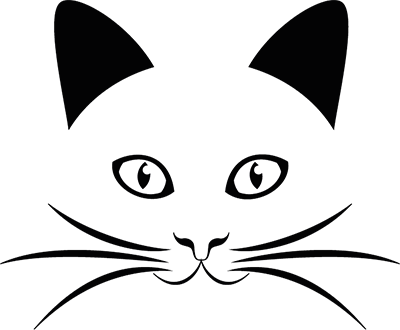
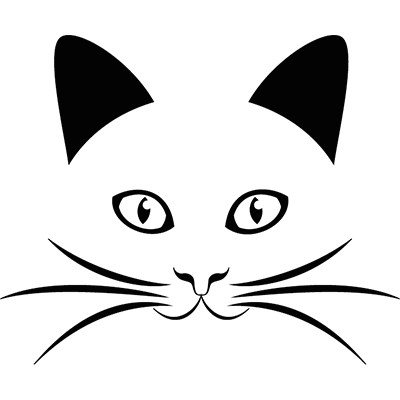
Изменён размер картинки для загрузочного экрана. Добавлены новые функции для графики.

diff --git a/cat_engine/src/graphics/graphics.rs b/cat_engine/src/graphics/graphics.rs
@@ -95,6 +95,14 @@ impl Graphics2D{
     /// Используется только для невращающихся изображений.
     /// 
     /// Для вывода изображения из этой области используется функция 'draw_range_image'.
+    /// 
+    /// Saves vertexes of the image to the given range of the vertex buffer.
+    /// 
+    /// Returns the index of the range.
+    /// 
+    /// Only for not rotating images.
+    /// 
+    /// Use 'draw_range_image' for drawing.
     #[cfg(feature="texture_graphics")]
     pub fn bind_image(&mut self,range:Range<usize>,image_base:ImageBase)->Option<usize>{
         let data=image_base.vertex_buffer();
@@ -108,38 +116,76 @@ impl Graphics2D{
     /// Используется только для вращающихся изображений.
     /// 
     /// Для вывода изображения из этой области используется функция 'draw_rotate_range_image'.
+    /// 
+    /// Saves vertexes of the image to the given range of the vertex buffer.
+    /// 
+    /// Returns the index of the range.
+    /// 
+    /// Only for rotating images.
+    /// 
+    /// Use 'draw_rotate_range_image' for drawing.
     #[cfg(feature="texture_graphics")]
     pub fn bind_rotating_image(&mut self,range:Range<usize>,image_base:ImageBase)->Option<usize>{
         let data=image_base.rotation_vertex_buffer();
         self.texture.bind_range(range,&data)
     }
 
+    /// Saves vertexes of the simple object to the given range of the vertex buffer.
+    /// 
+    /// Returns the index of the range.
+    /// 
+    /// Use 'draw_range_simple' for drawing.
     #[cfg(feature="simple_graphics")]
     pub fn bind_simple<'a,O:SimpleObject<'a>>(&mut self,range:Range<usize>,object:&O)->Option<usize>{
         let data=object.vertex_buffer();
         self.simple.bind_range(range,&data)
     }
 
+    /// Rewrites the range with new ImageBase.
     #[cfg(feature="texture_graphics")]
     pub fn rewrite_range_image(&mut self,range:usize,image_base:ImageBase)->Option<()>{
         let data=image_base.rotation_vertex_buffer();
         self.texture.rewrite_range(range,&data)
     }
 
+    /// Rewrites the range with new object.
+    #[cfg(feature="simple_graphics")]
+    pub fn rewrite_range_simple<'a,O:SimpleObject<'a>>(&mut self,range:usize,object:&O)->Option<()>{
+        let data=object.vertex_buffer();
+        self.simple.rewrite_range(range,&data)
+    }
+
+    /// Removes the last range from the range buffer of textures.
+    #[inline(always)]
+    #[cfg(feature="texture_graphics")]
+    pub fn pop_texture(&mut self,index:usize)->Option<Range<usize>>{
+        self.texture.pop_range()
+    }
+
+    /// Removes the last range from the range buffer of simple objects.
+    #[inline(always)]
+    #[cfg(feature="simple_graphics")]
+    pub fn pop_simple(&mut self,index:usize)->Option<Range<usize>>{
+        self.texture.pop_range()
+    }
+
+    /// Removes the range from the range buffer of textures.
     #[inline(always)]
     #[cfg(feature="texture_graphics")]
     pub fn unbind_texture(&mut self,index:usize){
         self.texture.unbind(index)
     }
 
+    /// Removes the range from the range buffer of simple objects.
     #[inline(always)]
     #[cfg(feature="simple_graphics")]
     pub fn unbind_simple(&mut self,index:usize){
         self.simple.unbind(index)
     }
 
+    /// 
     #[cfg(feature="texture_graphics")]
-    pub fn draw_range_image(
+    fn draw_range_image(
         &self,
         index:usize,
         texture:&Texture,
@@ -159,7 +205,7 @@ impl Graphics2D{
     }
 
     #[cfg(feature="texture_graphics")]
-    pub fn draw_shift_range_image(
+    fn draw_shift_range_image(
         &self,
         index:usize,
         texture:&Texture,
@@ -181,7 +227,7 @@ impl Graphics2D{
     }
 
     #[cfg(feature="texture_graphics")]
-    pub fn draw_rotate_range_image(
+    fn draw_rotate_range_image(
         &self,
         index:usize,
         texture:&Texture,
@@ -203,7 +249,7 @@ impl Graphics2D{
     }
 
     #[cfg(feature="simple_graphics")]
-    pub fn draw_range_simple<'a,O:SimpleObject<'a>>(
+    fn draw_range_simple<'a,O:SimpleObject<'a>>(
         &self,
         index:usize,
         object:&O,

diff --git a/src/pages/loading_screen.rs b/src/pages/loading_screen.rs
@@ -20,9 +20,7 @@ use cat_engine::{
 
 pub struct LoadingScreen{
     cat:Texture,
-    cat_range:usize,
     gear:Texture,
-    gear_range:usize,
 }
 
 impl LoadingScreen{
@@ -35,20 +33,18 @@ impl LoadingScreen{
         ]});
 
         // Установка области для быстрой отрисовки иконки загрузки
-        let cat_range=window.graphics().bind_image(4..8usize,image_base.clone()).unwrap();
+        window.graphics().bind_image(4..8usize,image_base.clone()).unwrap();
 
         image_base.x1*=2f32;
         image_base.y1*=2f32;
         image_base.x2*=2f32;
         image_base.y2*=2f32;
 
-        let gear_range=window.graphics().bind_rotating_image(8..12usize,image_base).unwrap();
+        window.graphics().bind_rotating_image(8..12usize,image_base).unwrap();
 
         Self{
             cat:Texture::from_path("./resources/images/cat.png",window.display()).unwrap(),
-            cat_range,
             gear:Texture::from_path("./resources/images/gear.png",window.display()).unwrap(),
-            gear_range,
         }
     }
 
@@ -73,14 +69,14 @@ impl LoadingScreen{
                     window.draw(|parameters,graphics|{
                         graphics.clear_colour(White);
                         graphics.draw_range_image(
-                            self.cat_range,
+                            0,
                             &self.cat,
                             White,
                             parameters
                         );
 
                         graphics.draw_rotate_range_image(
-                            self.gear_range,
+                            1,
                             &self.gear,
                             White,
                             t,
@@ -95,14 +91,14 @@ impl LoadingScreen{
                         make_screenshot(window,|parameters,graphics|{
                             graphics.clear_colour(White);
                             graphics.draw_range_image(
-                                self.cat_range,
+                                0,
                                 &self.cat,
                                 White,
                                 parameters
                             );
-    
+
                             graphics.draw_rotate_range_image(
-                                self.gear_range,
+                                1,
                                 &self.gear,
                                 White,
                                 t,
@@ -143,9 +139,9 @@ impl LoadingScreen{
         }
 
         // Удаление области для иконки загрузки
-        window.graphics().unbind_texture(self.cat_range);
+        window.graphics().unbind_texture(0);
 
-        window.graphics().unbind_texture(self.gear_range-1);
+        window.graphics().unbind_texture(0);
 
         Game::MainMenu
     }

diff --git a/cat_engine/src/graphics/simple_graphics.rs b/cat_engine/src/graphics/simple_graphics.rs
@@ -138,6 +138,17 @@ impl SimpleGraphics{
         Some(i)
     }
 
+    pub fn rewrite_range(&mut self,range:usize,data:&[Point2D])->Option<()>{
+        let range=self.vertex_buffer_ranges.get(range)?;
+        let slice=self.vertex_buffer.slice(range.clone())?;
+        slice.write(&data);
+        Some(())
+    }
+
+    pub fn pop_range(&mut self)->Option<Range<usize>>{
+        self.vertex_buffer_ranges.pop()
+    }
+
     /// Удаляет выбранную область, без проверки.
     /// 
     /// Removes a range without checking it.

diff --git a/cat_engine/src/graphics/texture_graphics.rs b/cat_engine/src/graphics/texture_graphics.rs
@@ -164,6 +164,10 @@ impl TextureGraphics{
         Some(i)
     }
 
+    pub fn pop_range(&mut self)->Option<Range<usize>>{
+        self.vertex_buffer_ranges.pop()
+    }
+
     /// 
     pub fn rewrite_range(&mut self,range:usize,data:&[TexturedVertex])->Option<()>{
         let range=self.vertex_buffer_ranges.get(range)?;

diff --git a/cat_engine/src/graphics/mod.rs b/cat_engine/src/graphics/mod.rs
@@ -49,8 +49,7 @@
 //! ```
 
 mod graphics;
-pub (crate) use graphics::{Graphics2D};
-pub use graphics::{Graphics,GraphicsSettings};
+pub use graphics::{Graphics,Graphics2D,GraphicsSettings};
 
 
 #[cfg(feature="simple_graphics")]

diff --git a/cat_engine/README.MD b/cat_engine/README.MD
@@ -1,4 +1,4 @@
-# ![logo](https://github.com/Clomance/Visual-Novel/blob/master/cat_engine/logo_400x400.png)
+# ![logo](https://github.com/Clomance/Visual-Novel/raw/master/cat_engine/logo_400x400.png)
 
 # Cat Engine
 
